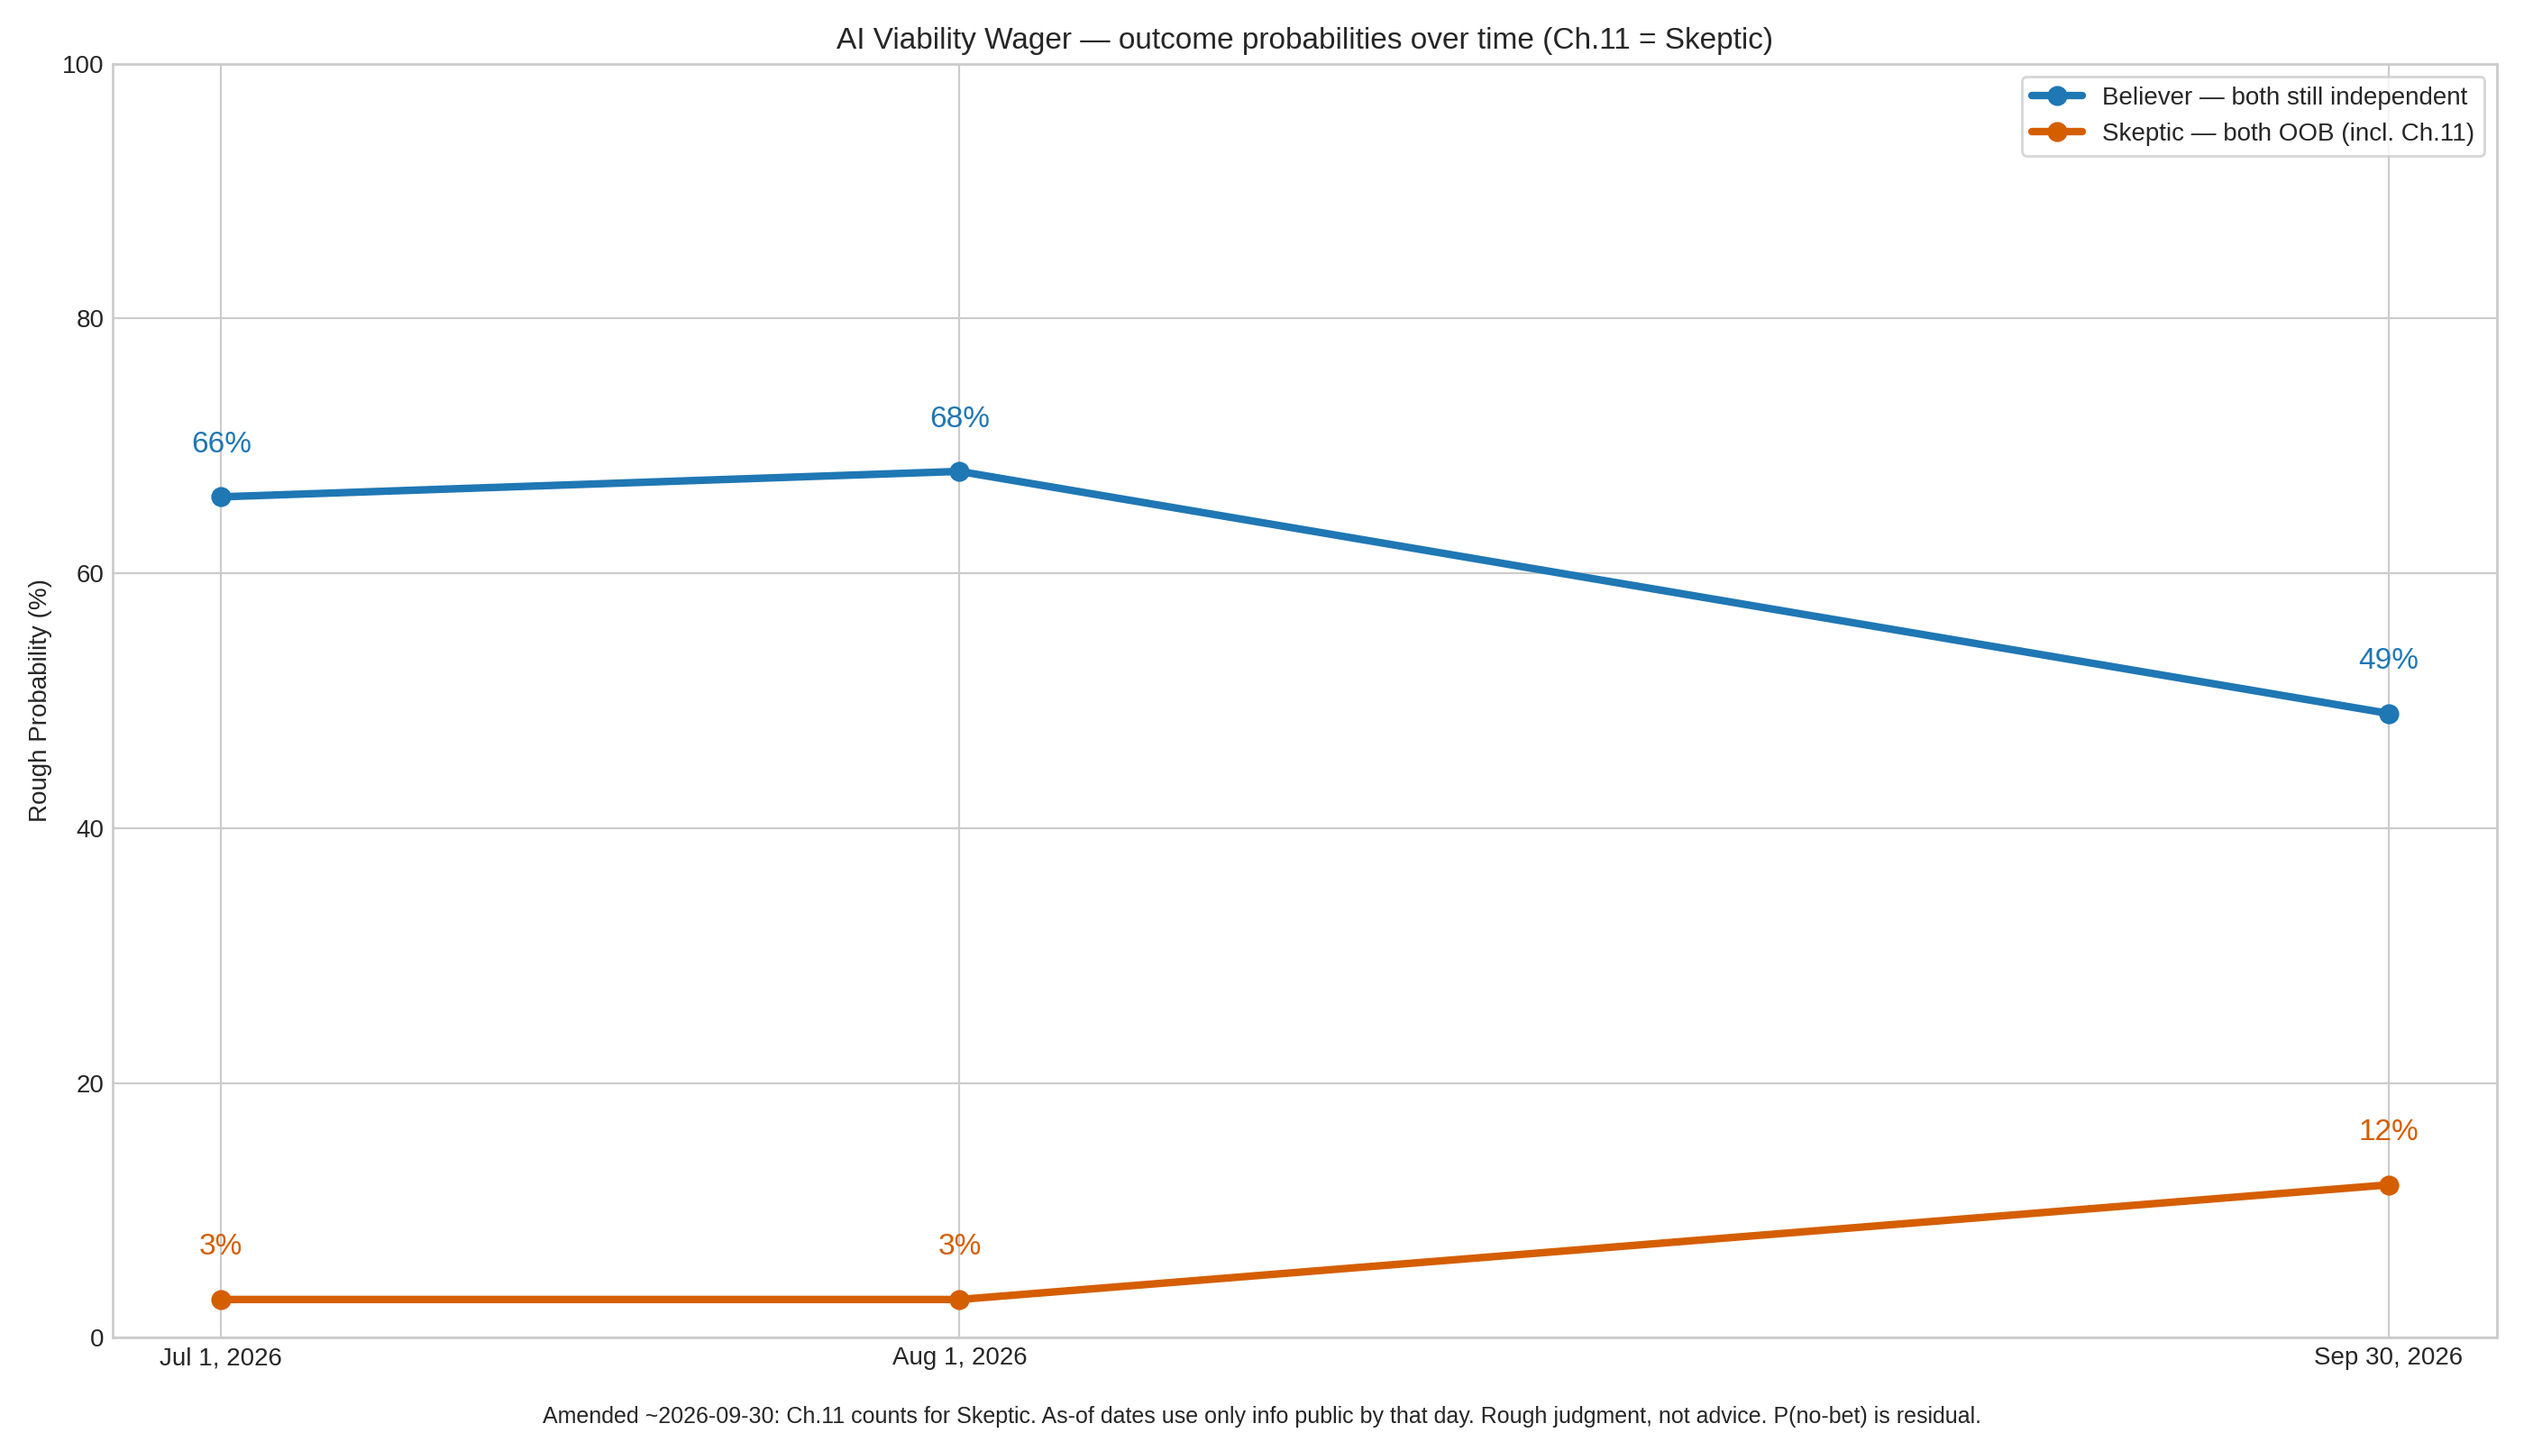
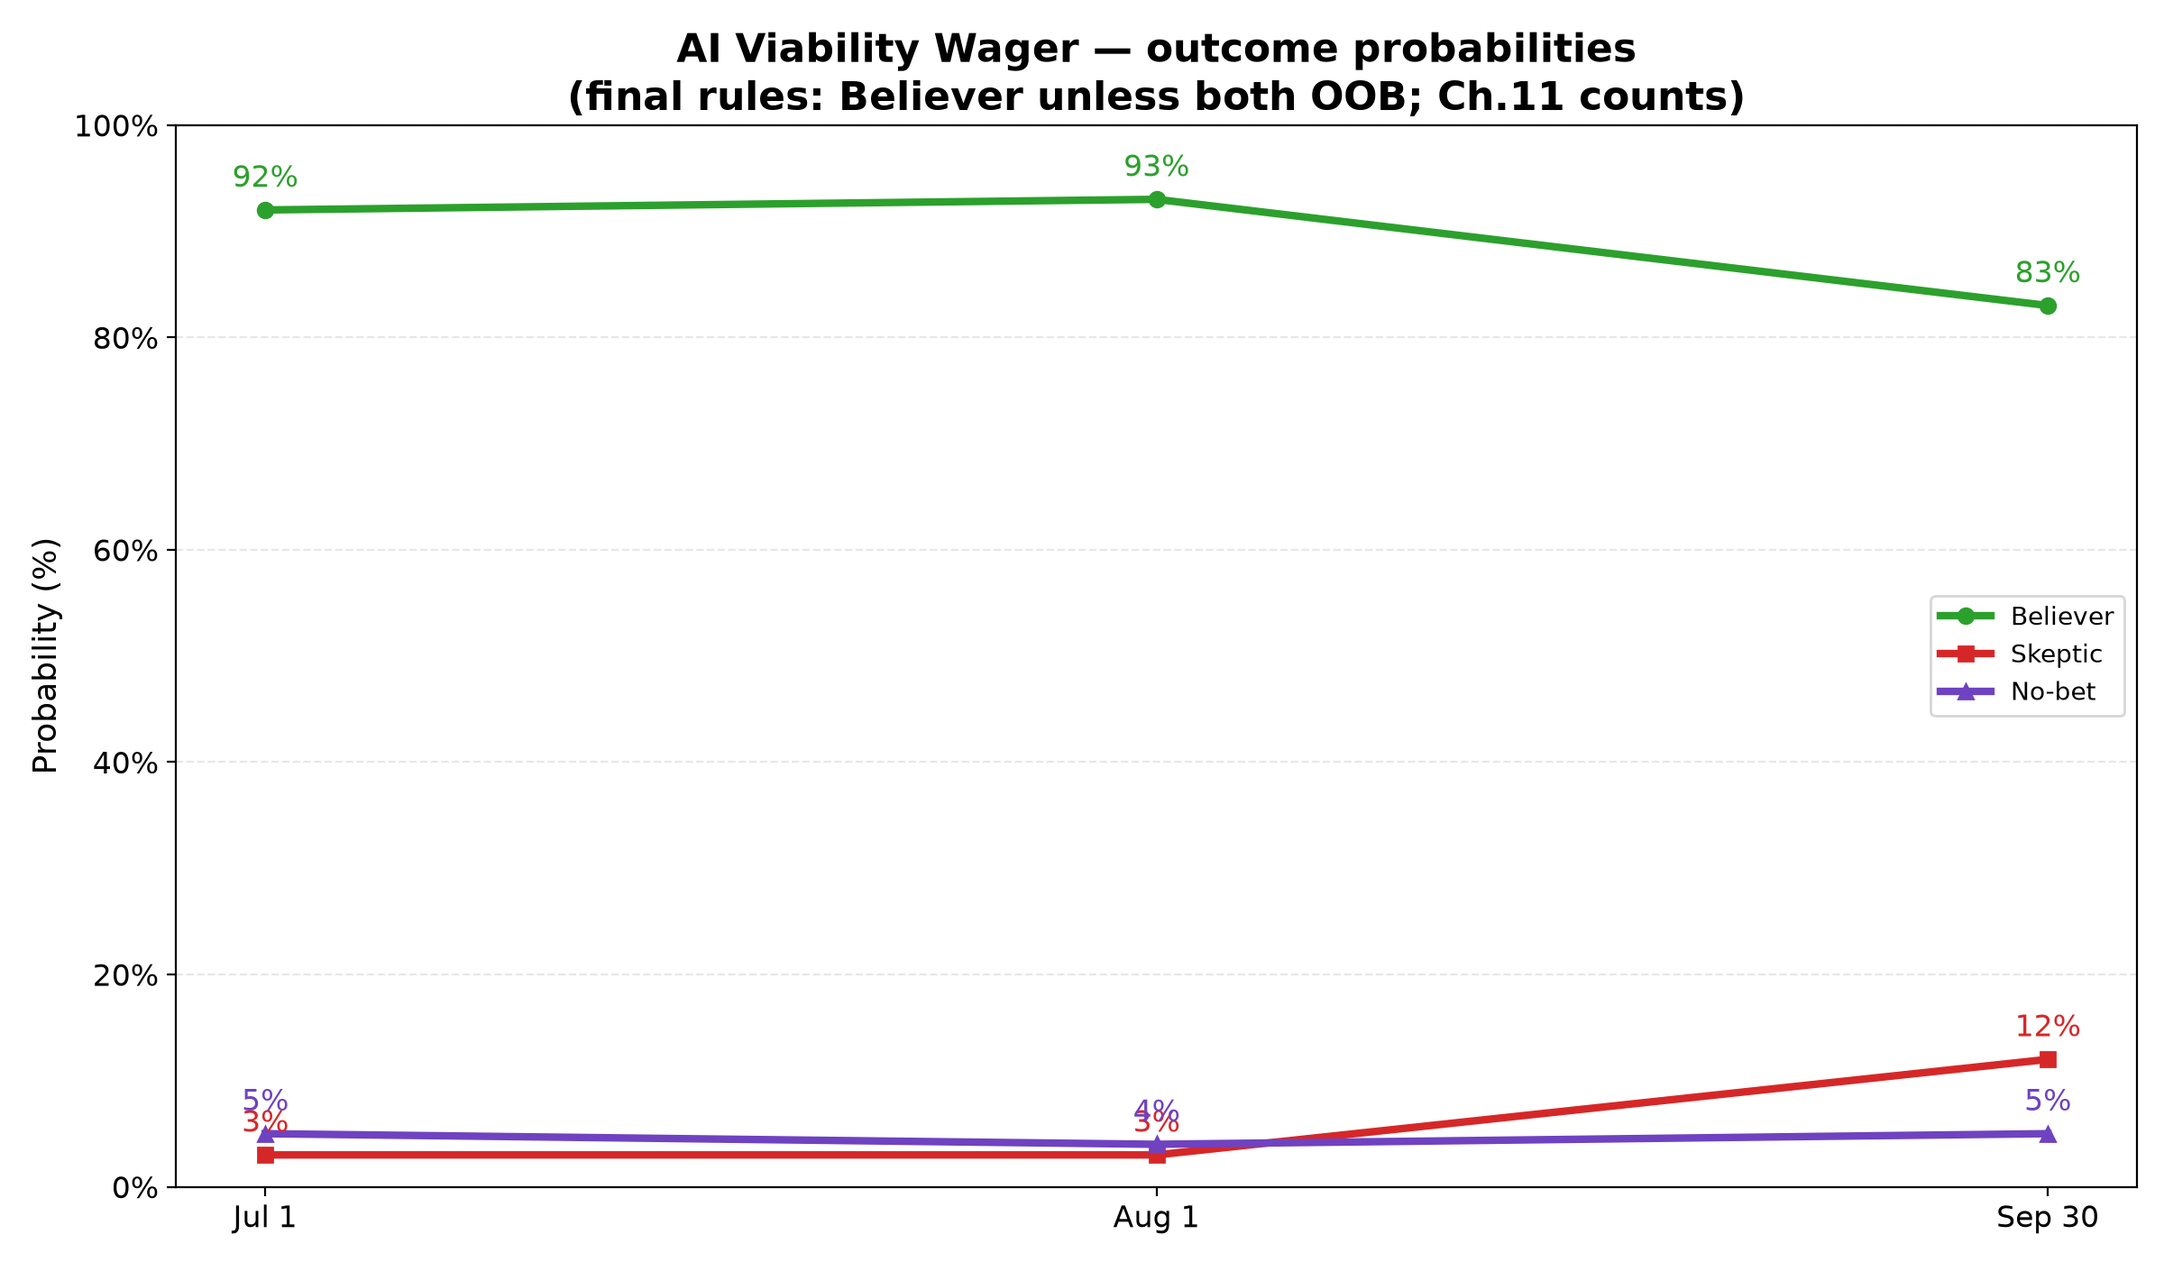
AI Viability Wager: finalize rules (Believer unless BOTH OOB) + update history and site payload (#5)
* AI Viability Wager: apply final rules summary (Believer unless BOTH OOB), update monthly copy and Sept values; keep final-rules note

* AI Viability Wager: update history.csv to final series (92/3/5, 93/3/4, 83/12/5)

* AI Viability Wager: overwrite history.json with final series and bullets (Believer unless BOTH OOB)

* AI Viability Wager: replace site-payload.json with final rules + copy (Believer unless BOTH OOB)

* AI Viability Wager: clean Jul 1 section (remove HTML comments; no stray markers) and update chart to final series (92/3/5, 93/3/4, 83/12/5)

---------

diff --git a/ai-viability-wager.md b/ai-viability-wager.md
@@ -9,11 +9,11 @@ title: AI Viability Wager
 
 ## Wager summary
 
-- **Believer**: Joseph Conley — wins if BOTH OpenAI and Anthropic stay independently operational through June 30, 2028 11:59 PM ET (neither hits Out of Business, now including Ch.11)
-- **Skeptic**: wins only if BOTH hit Out of Business under the wager rules (Ch.7, Ch.11/equivalent restructuring, permanent cessation, receiver wind-down, or dissolution)
-- **No‑bet**: acquisition/merger keeping AI services running (or similar carve-outs) may void a leg; mixed one-OOB / one-healthy → no-bet; both legs voided → no-bet
+- **Believer**: Joseph Conley — wins if it is NOT the case that BOTH OpenAI and Anthropic are Out of Business by June 30, 2028 11:59 PM ET (zero or one failure = Believer; Ch.11 counts as OOB for a lab)
+- **Skeptic**: wins ONLY if BOTH hit Out of Business (Ch.7, Ch.11/equivalent restructuring, permanent cessation, receiver wind-down, or dissolution)
+- **No‑bet**: mainly dual carve-outs / both legs voided (e.g. both acquired with continued AI ops); one-lab OOB is Believer, not no-bet
 
-<small><em>Rules note:</em> Amended ~2026-09-30: Chapter 11 (or equivalent restructuring) counts as Out of Business / Skeptic-win for that lab — even if commercial AI services continue. Acquisition/merger that keeps AI services running may still void that leg.</small>
+<small><em>Rules note:</em> Final amendment ~2026-09-30: Believer wins unless BOTH labs are Out of Business by the deadline (one-lab OOB → Believer). Skeptic wins only on dual OOB. Ch.11 still counts as OOB for a lab. No-bet is mainly dual carve-outs / both legs voided — not single failure.</small>
 
 <br>
 
@@ -27,21 +27,25 @@ Entries are in chronological order.
 
 ### Jul 1, 2026
 
-- **Believer**: 66% &nbsp;&nbsp; **Skeptic**: 3% &nbsp;&nbsp; **No‑bet**: 31%
-- Amended rules: Chapter 11 (or equivalent restructuring) is now Out of Business / Skeptic for that lab — no continued-ops carve-out. Dual failure still rare next to fresh capital (OpenAI March $122B / $852B; Anthropic spring ~$65B at $965B) and early-June confidential listings.
-- Per-lab distress looked low as of this date; Skeptic needs BOTH labs to hit OOB (now including Ch.11), so joint odds stay small. Believer still ahead.
+
+    30|- **Believer**: 92% &nbsp;&nbsp; **Skeptic**: 3% &nbsp;&nbsp; **No‑bet**: 5%
+
+
+- **Believer**: 92% &nbsp;&nbsp; **Skeptic**: 3% &nbsp;&nbsp; **No‑bet**: 5%
+- Final logic (~2026-09-30): Believer wins if it is NOT the case that both labs are Out of Business (zero or one failure = Believer). Skeptic still needs BOTH OOB (Ch.11 counts). Dual failure still rare next to fresh capital (OpenAI March $122B / $852B; Anthropic spring ~$65B at $965B) and early-June confidential listings.
+- No-bet is mainly dual carve-outs / both legs voided — not single-lab failure. Per-lab distress looked low as of this date, so joint Skeptic stays thin and Believer is well ahead.
 
 ### Aug 1, 2026
 
-- **Believer**: 68% &nbsp;&nbsp; **Skeptic**: 3% &nbsp;&nbsp; **No‑bet**: 29%
-- No July solvency break; a July 30 third-party tracker put OpenAI ARR near $43B, so joint-survival odds ticked up even with Ch.11 counting for Skeptic.
-- Anthropic’s last public run-rate was still the May ~$47B figure; Skeptic still needs both labs to hit OOB (incl. Ch.11).
+- **Believer**: 93% &nbsp;&nbsp; **Skeptic**: 3% &nbsp;&nbsp; **No‑bet**: 4%
+- No July solvency break; a July 30 third-party tracker put OpenAI ARR near $43B. Under final rules Believer captures one-out paths as wins, so Believer odds tick up further vs the old partition.
+- Anthropic’s last public run-rate was still the May ~$47B figure; Skeptic still needs both labs OOB (incl. Ch.11). No-bet remains a thin dual-void residual.
 
 ### Sep 30, 2026
 
-- **Believer**: 49% &nbsp;&nbsp; **Skeptic**: 12% &nbsp;&nbsp; **No‑bet**: 39%
-- Rules amendment (~2026-09-30): Ch.11 = Skeptic for that lab. Polymarket any-bankruptcy ~mid-teens to ~17%+ per lab (opened Sep 17) plus Sep burn math meaningfully raise joint Skeptic vs the old ~4% strict-liquidation path; mild positive correlation assumed.
-- Believer still needs BOTH labs independently operational; one Ch.11 + one healthy is No-bet. Acquisition/merger keeping AI services running can still void a leg. Believer remains ahead on the bottle.
+- **Believer**: 83% &nbsp;&nbsp; **Skeptic**: 12% &nbsp;&nbsp; **No‑bet**: 5%
+- Final rules: one-lab OOB → Believer (not no-bet). Polymarket any-bankruptcy ~mid-teens to ~17%+ per lab (opened Sep 17) plus Sep burn math keep joint Skeptic ~similar to the dual-OOB path (~12% with mild correlation).
+- Former mixed one-out mass shifts into Believer, so No-bet collapses to dual carve-outs / both legs voided. Believer remains clearly ahead on the bottle.
 
 <br>
 
